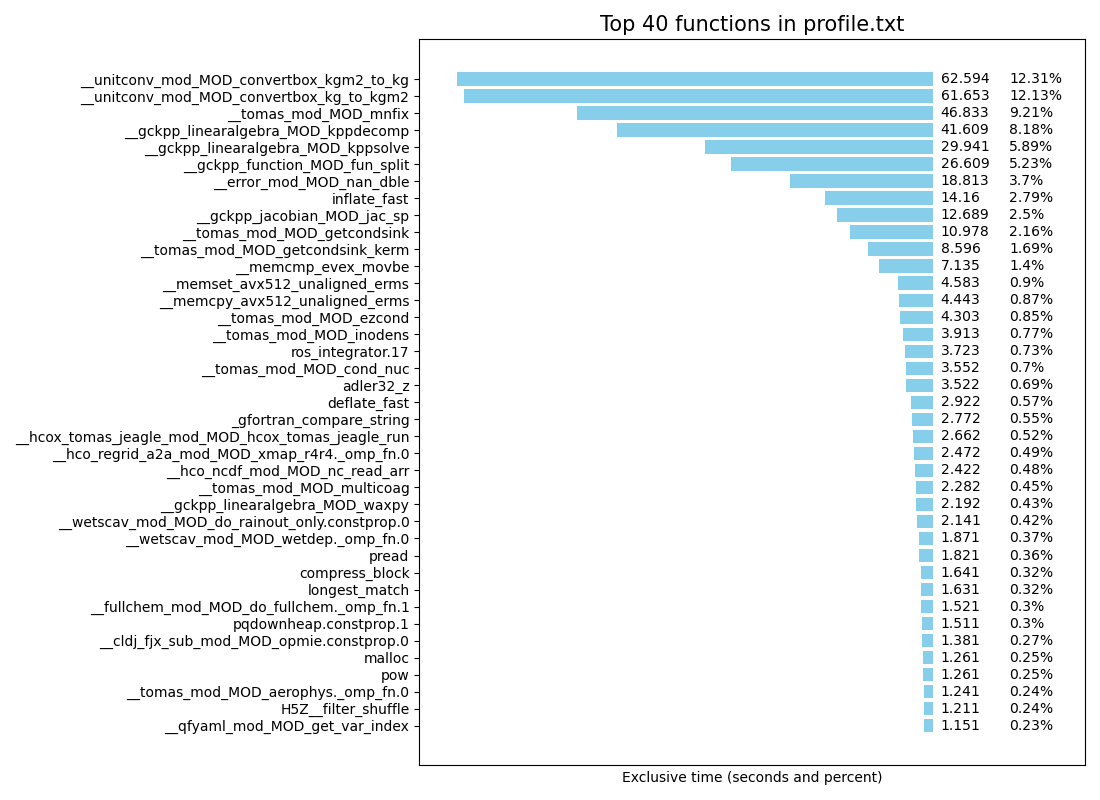
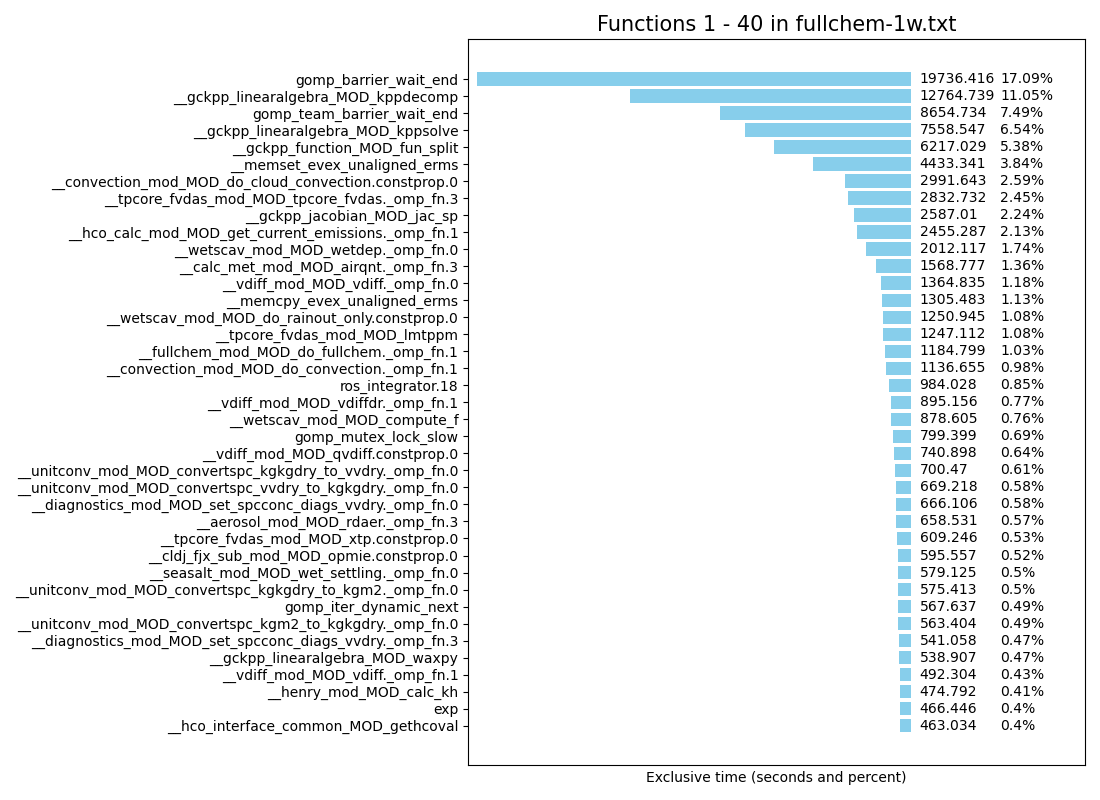
Updated the gprofng example documentation
docs/source/Code-Profiling.rst
- Updated example call plot_functions with 1 40 (n_min and n_max),
  and then 41 80
- Trimmed trailing whitespace

docs/source/static/images/gprof_functions.png
- Updated to show a longer profile with fullchem and not TOMAS

diff --git a/docs/source/Code-Profiling.rst b/docs/source/Code-Profiling.rst
@@ -44,7 +44,7 @@ would use this command:
 
    $ gprofng collect app ./gcclassic
 
-:program:`Gprofng` will send profiling output to a folder named 
+:program:`Gprofng` will send profiling output to a folder named
 :file:`test.N.er`, where :code:`N` is an integer index and :code:`er`
 stands for  "experiment record".
 
@@ -57,9 +57,9 @@ Next, send function profiling information to a file:
 Here is a sample :file:`functions_profile.txt` for GEOS-Chem Classic.
 
 .. code-block:: text
-		
+
    (gp-display-text) Functions sorted by metric: Exclusive Total CPU Time
-		
+
    Excl. Total     Incl. Total      Name
    CPU             CPU
       sec.      %     sec.      %
@@ -84,11 +84,15 @@ following command:
 
 .. code-block:: console
 
-   $ python -m gcpy.examples.gprofng.plot_functions functions_profile.txt 40
+   $ python -m gcpy.examples.gprofng.plot_functions functions_profile.txt 1 40
 
-This will create the plot above, where 40 functions having the highest
-exclusive time are displayed.  You can change the number of
-functions to include in the plot by passing a different number as
-the second argument.  You should display less than 50 functions per
-plot, or else the plot will become unreadable.
-   
+This will create a plot similar to that shown above, which shows the
+top 40 functions sorted by exclusive time. To see the next 40
+functions sorted by exclusive time, use this command:
+
+.. code-block:: console
+
+   $ python -m gcpy.examples.gprofng.plot_functions functions_profile.txt 41 80
+
+etc.  You should display fewer than 50 functions in order to prevent
+the time and percent labels from overlapping.
